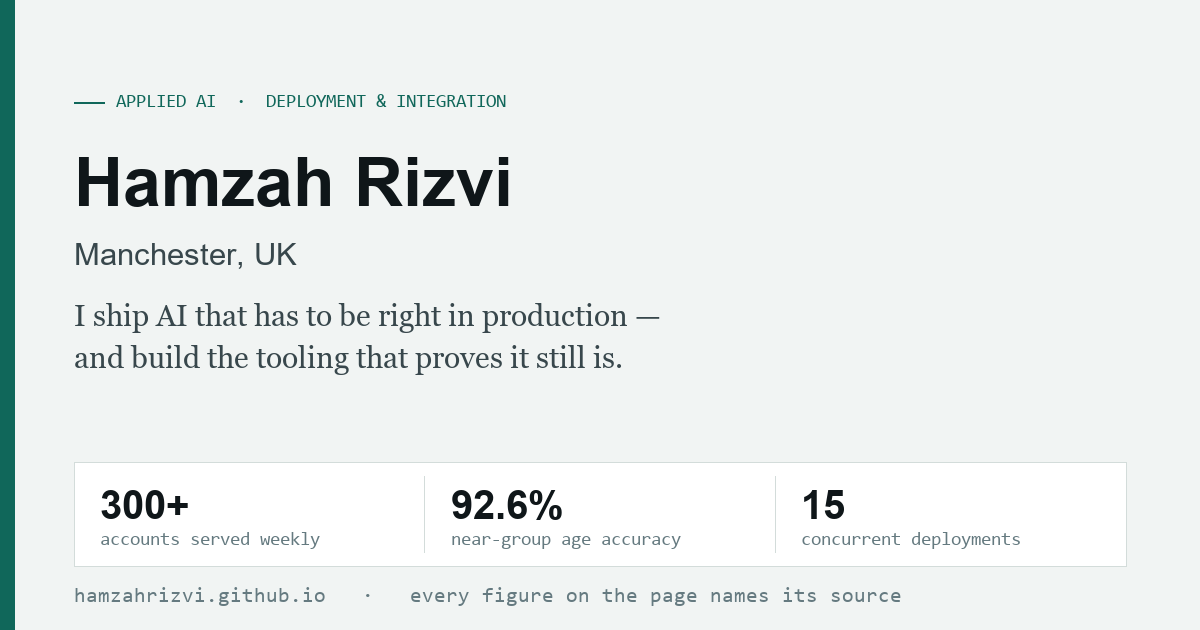
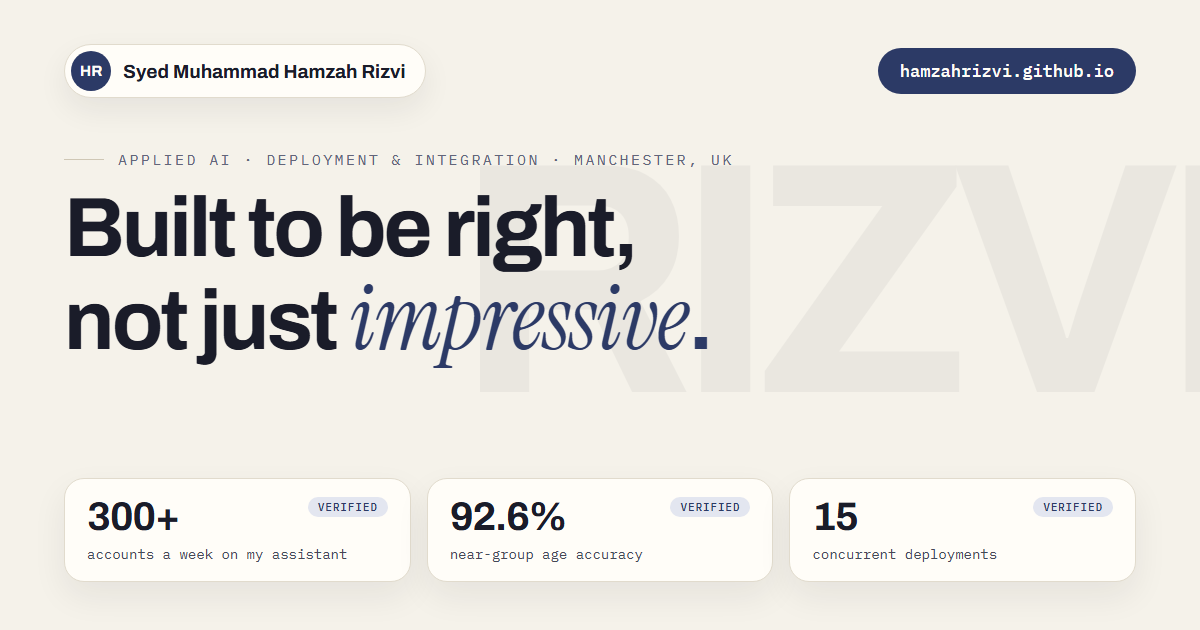
Share card in the new cream and navy design

diff --git a/index.html b/index.html
@@ -14,7 +14,7 @@
 <meta property="og:title" content="Hamzah Rizvi &mdash; Applied AI, Deployment &amp; Integration">
 <meta property="og:description" content="Applied AI, deployment and integration engineer in Manchester, UK. Three years taking AI and biometric systems into live production across 10+ countries. Every figure on the page names its source.">
 <meta property="og:url" content="https://hamzahrizvi.github.io/">
-<meta property="og:image" content="https://hamzahrizvi.github.io/img/og-card.png">
+<meta property="og:image" content="https://hamzahrizvi.github.io/img/og-card.png?v=2">
 <meta property="og:image:width" content="1200">
 <meta property="og:image:height" content="630">
 <meta property="profile:first_name" content="Hamzah">
@@ -23,7 +23,7 @@
 <meta name="twitter:card" content="summary_large_image">
 <meta name="twitter:title" content="Hamzah Rizvi &mdash; Applied AI, Deployment &amp; Integration">
 <meta name="twitter:description" content="Applied AI, deployment and integration engineer in Manchester, UK. Three years taking AI and biometric systems into live production across 10+ countries. Every figure on the page names its source.">
-<meta name="twitter:image" content="https://hamzahrizvi.github.io/img/og-card.png">
+<meta name="twitter:image" content="https://hamzahrizvi.github.io/img/og-card.png?v=2">
 
 <link rel="preconnect" href="https://fonts.googleapis.com">
 <link rel="preconnect" href="https://fonts.gstatic.com" crossorigin>
